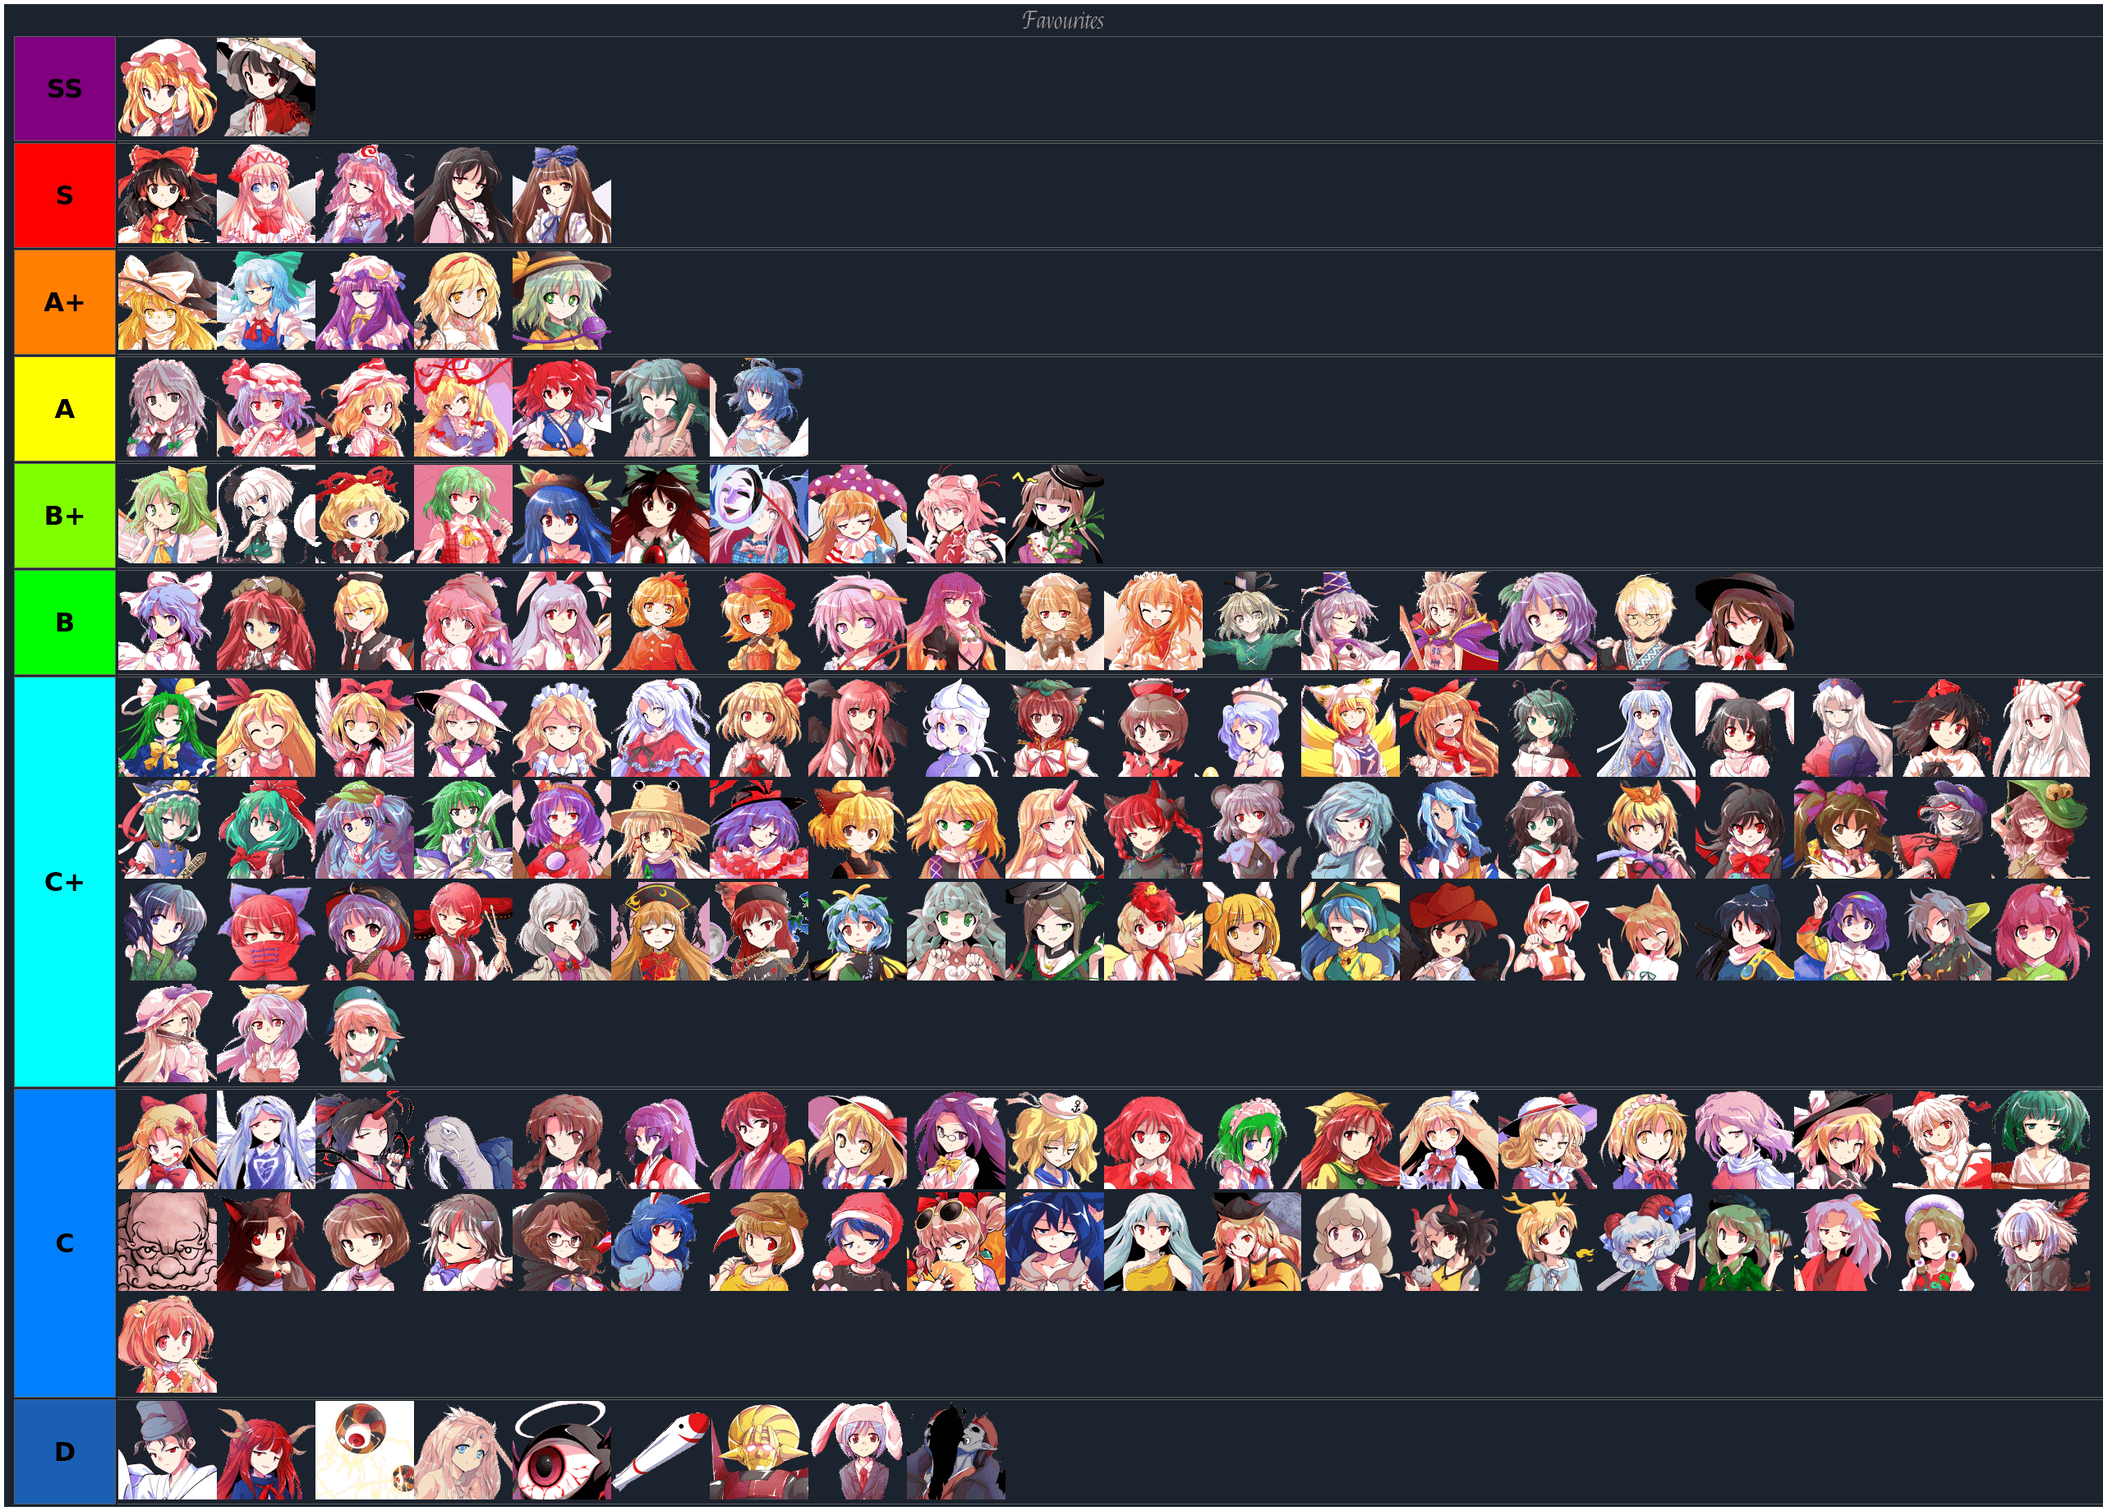
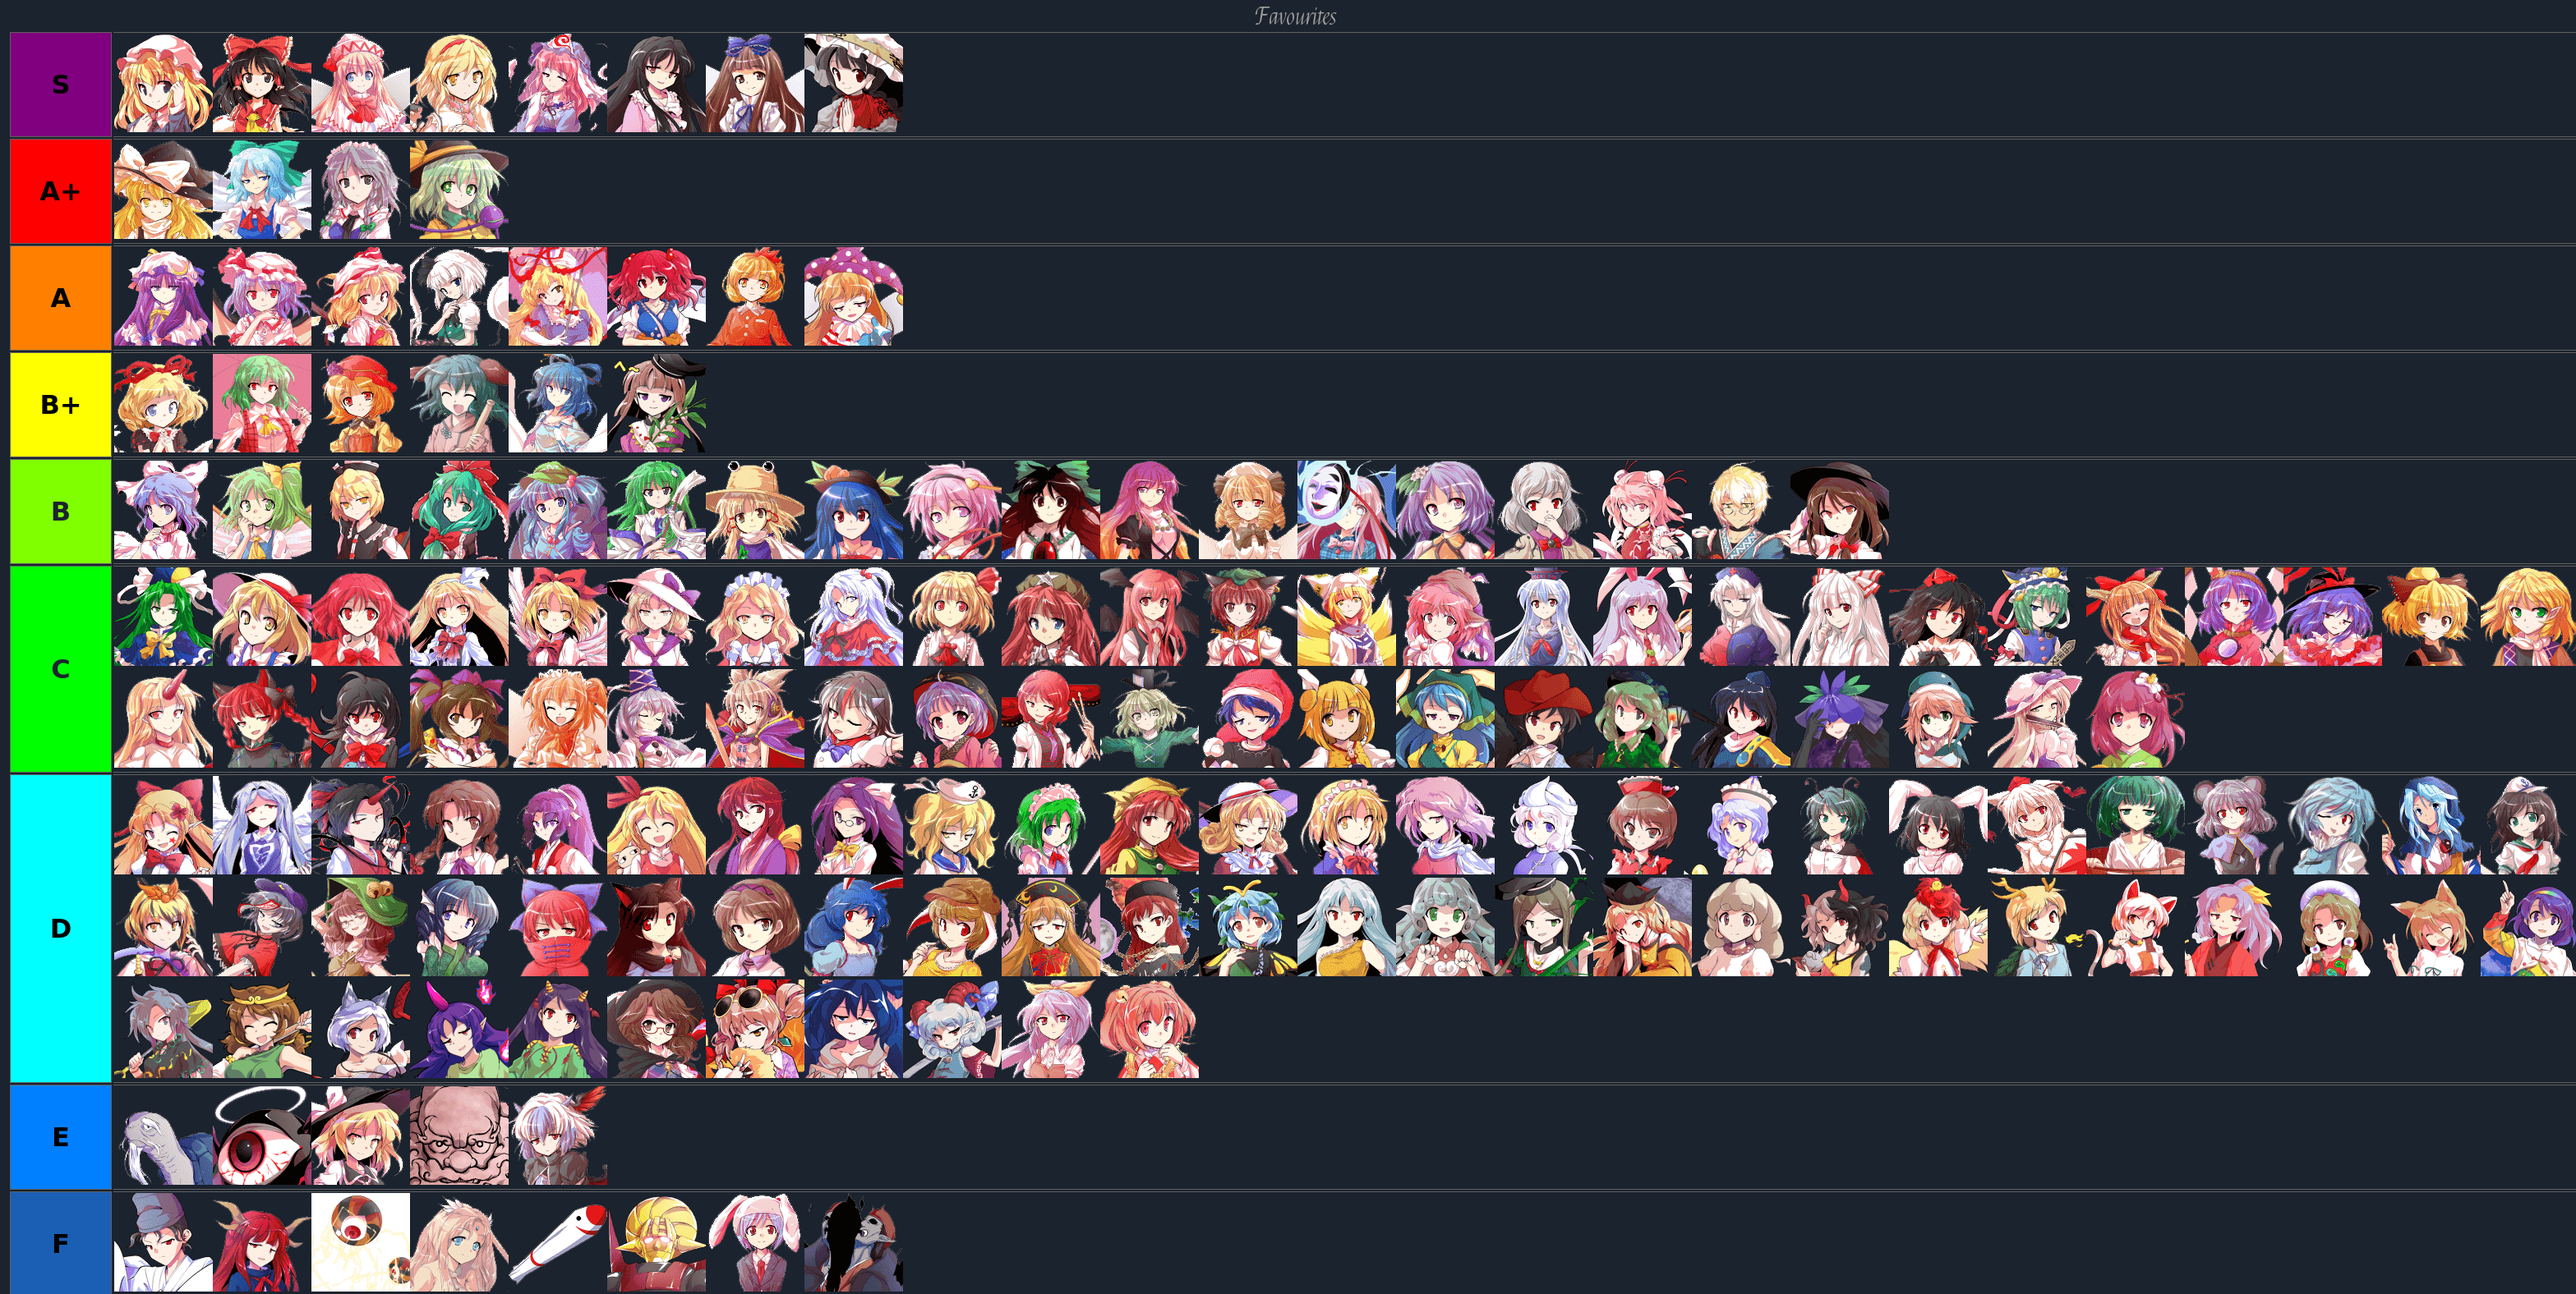
[About] Update personal tier list

diff --git a/php/about.php b/php/about.php
@@ -192,7 +192,7 @@
     <h2 id='touhou'>Touhou Taste</h2>
     <figure>
         <img id='tiers' src='assets/main/about/tiers.png' alt='Maribel&#39;s Touhou character tier list'>
-        <figcaption><em>Touhou character tier list as of 6 November 2021</em></figcaption>
+        <figcaption><em>Touhou character tier list as of 22 September 2023</em></figcaption>
     </figure>
     <footer class='wide-top'><strong><a href='#top'>Back to Top</a></strong></footer>
 </div>
